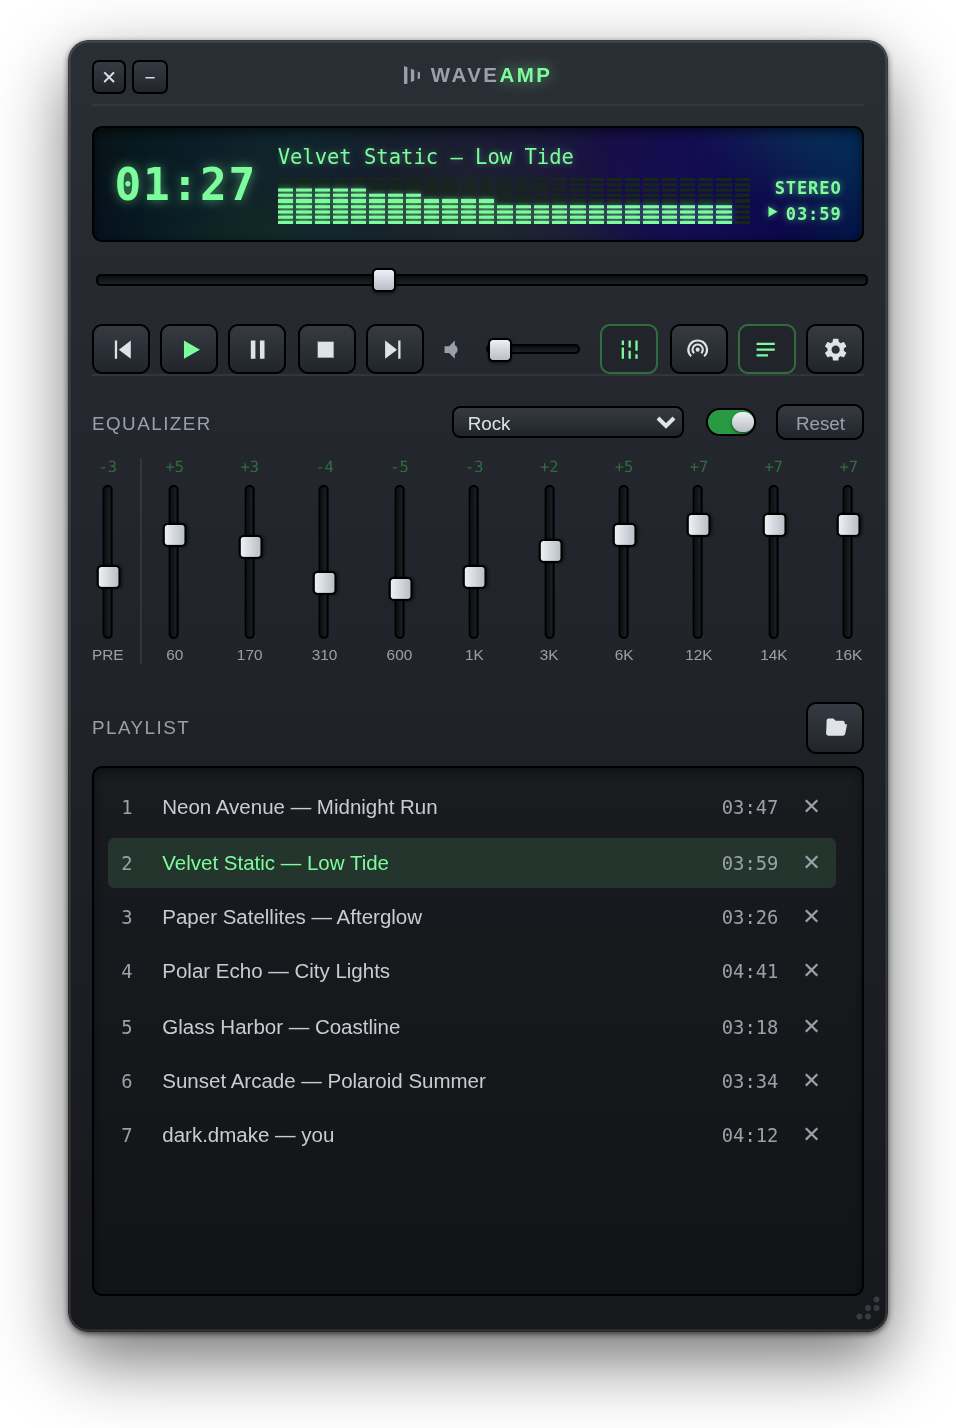
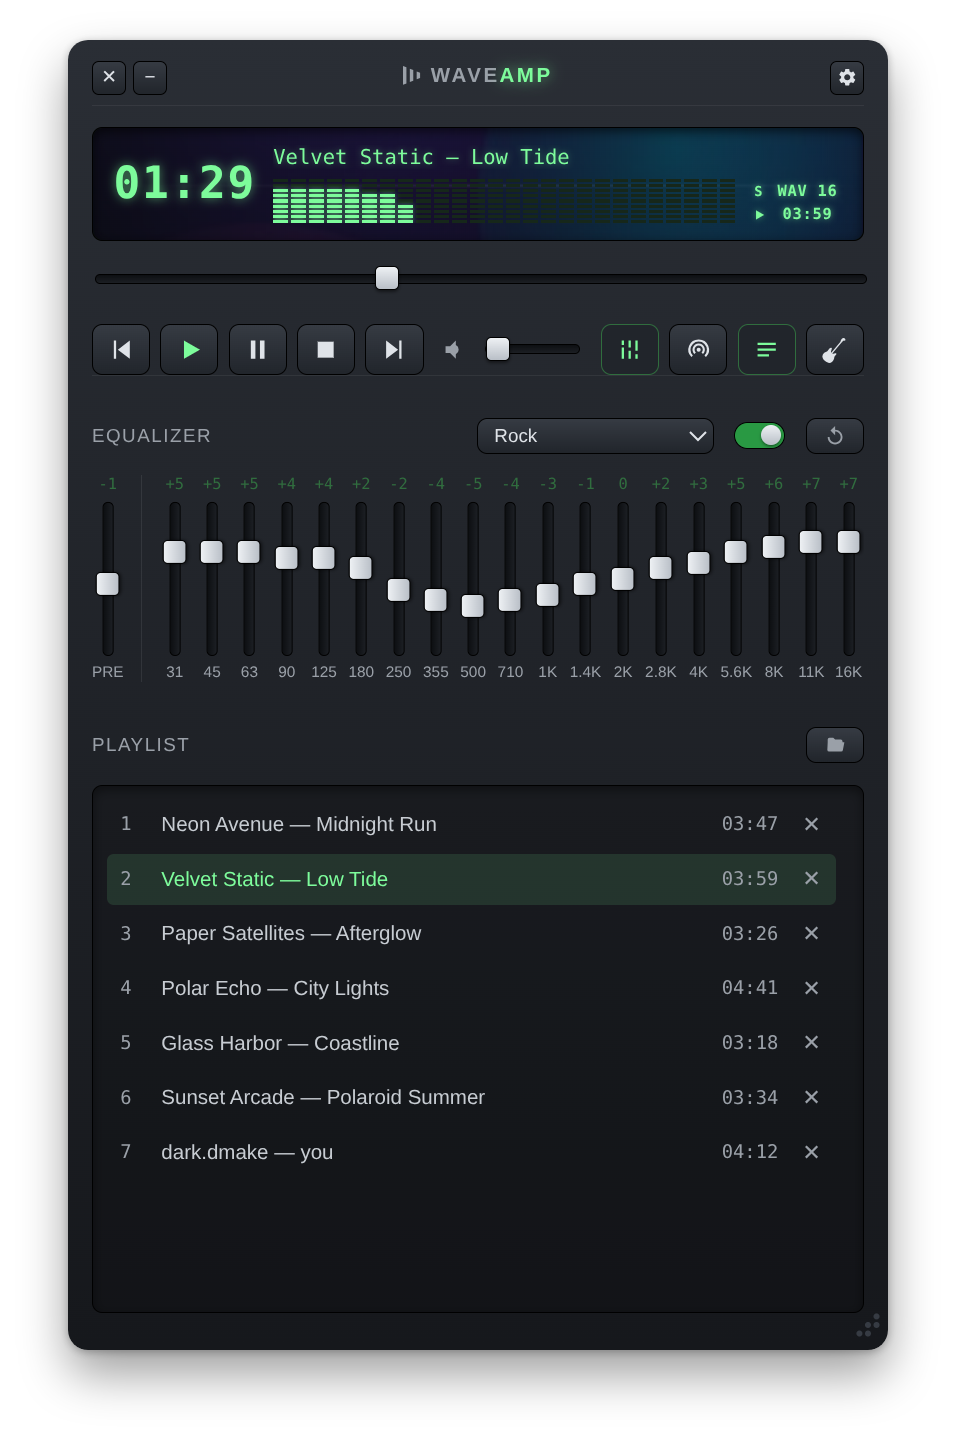
Refresh the README and keep the radio counters inside their buttons

diff --git a/src/renderer/style.css b/src/renderer/style.css
@@ -1534,7 +1534,7 @@ input[type="range"].eq__slider {
 .radio__tab-count {
   position: absolute;
   top: -6px;
-  right: -4px;
+  right: 0;
   display: inline-flex;
   align-items: center;
   justify-content: center;

diff --git a/README.ru.md b/README.ru.md
@@ -3,8 +3,8 @@
 [English](README.md) | **Русский**
 
 Десктопный аудиоплеер с интернет-радио в стиле классического Winamp: тёмный
-корпус, светящийся LCD-дисплей и настоящий 10-полосный эквалайзер. Работает
-на macOS, Windows и Linux.
+корпус, светящийся LCD-дисплей и настоящий эквалайзер на 10 или 19 полос.
+Работает на macOS, Windows и Linux.
 
 **Есть и для VS Code:** WaveAMP в боковой панели редактора —
 [waveamp-vscode](https://github.com/darkdkl/waveamp-vscode).
@@ -14,11 +14,16 @@
 </p>
 
 <p align="center">
-  <img src="docs/radio.png" alt="Радио: трек, который играет на станции, и сохранённые названия" width="400" />
+  <img src="docs/player.png" alt="19-полосный эквалайзер и плейлист, с обложкой" width="400" />
+  <img src="docs/chords.png" alt="Аккорды играющей песни над плейлистом" width="400" />
 </p>
 
 <p align="center">
-  <img src="docs/player.png" alt="Эквалайзер и плейлист с обложкой" width="400" />
+  <img src="docs/separate.png" alt="Отдельные окна: плеер, эквалайзер, аккорды и плейлист, прилипшие друг к другу" width="743" />
+</p>
+
+<p align="center">
+  <img src="docs/radio.png" alt="Радио: трек, который играет на станции, и сохранённые названия" width="400" />
   <img src="docs/settings.png" alt="Настройки" width="373" />
 </p>
 
@@ -34,10 +39,11 @@
 - **Обложки** — обложка альбома (вшитая в файл или `cover.jpg` / `folder.jpg`
   рядом с ним) или логотип радиостанции приглушённо видны на фоне дисплея и в
   «Сейчас играет» системы; отключается в настройках
-- **Эквалайзер** — 10 полос (60 Гц–16 кГц) и преамп на реальной обработке звука
-  через Web Audio API. 18 пресетов на основе классических пресетов Winamp
-  с автоматическим запасом по преампу и пользовательский пресет, который
-  запоминает ваши собственные настройки
+- **Эквалайзер** — 10 полос (60 Гц–16 кГц) или 19 более узких полос
+  (31 Гц–16 кГц), которые точно следуют ползункам, и преамп на реальной
+  обработке звука через Web Audio API. 18 пресетов на основе классических
+  пресетов Winamp с автоматическим запасом по преампу и пользовательский
+  пресет, который запоминает ваши собственные настройки
 - **Визуализатор** — режимы в LCD, переключаются кликом: LED-спектр,
   стрелочные индикаторы L/R и осциллограф. Плавный или пиковый отклик.
   Показывает реальный сигнал и не зависит от громкости
@@ -60,6 +66,19 @@
 - **Медиаклавиши и системный Now Playing** (Пункт управления macOS, медиапанель
   Windows)
 - **Иконка в трее** и сворачивание в трей по желанию
+- **Аккорды играющей песни** — по кнопке разбирает трек и по ходу
+  воспроизведения показывает предыдущий, текущий и следующий аккорд с
+  гитарными схемами, с каподастром и упрощённым режимом; работает и для
+  треков CUE-альбомов. Аккорды можно вынести в отдельное окно и растянуть
+  почти на весь экран; всё считается на вашем компьютере. На радио аккорды
+  распознаются на лету, пока играет станция: они появляются примерно на
+  секунду позже и менее точны, чем у файлов, — распознаванию нельзя заглянуть
+  вперёд, и мешают речь и реклама
+- **Отдельные окна** — эквалайзер, аккорды и плейлист/радио могут жить в своих
+  окнах, которые прилипают друг к другу и к краям экрана, двигаются вместе с
+  плеером и запоминают, где стояли (на Linux с Wayland плеер тогда работает
+  через XWayland)
+- **Перемещение плеера** — за любое пустое место, а не только за заголовок
 - **Прокси HTTP / SOCKS5** для радио
 - **Проверка обновлений** — сообщает о новой версии и даёт ссылку на страницу
   загрузки
@@ -105,7 +124,10 @@
   затем Системные настройки → Конфиденциальность и безопасность →
   «Всё равно открыть».
 - **Windows**: «Подробнее» → «Выполнить в любом случае» в окне SmartScreen
-- **Linux**: `chmod +x WaveAMP-*.AppImage` перед запуском
+- **Linux**: `chmod +x WaveAMP-*.AppImage` перед запуском. Для AppImage нужен
+  FUSE 2: если приложение не запускается и ругается на FUSE, установите его —
+  `sudo apt install libfuse2t64` в Debian 13 и Ubuntu 24.04+ (`libfuse2` в
+  более старых версиях) — или запустите с `--appimage-extract-and-run`.
 
 ## Сборка из исходников
 
@@ -147,6 +169,10 @@ npm run build:win
   аудиофайлов (MIT)
 - [projectM](https://github.com/projectM-visualizer/projectm) — движок пресетов
   визуализации, собранный в WebAssembly (LGPL-2.1)
+- [@wasm-audio-decoders/flac](https://github.com/eshaz/wasm-audio-decoders) —
+  декодирование FLAC для распознавания аккордов, на основе
+  [libFLAC](https://github.com/xiph/flac) (MIT; libFLAC — BSD-3-Clause),
+  вместе с [codec-parser](https://github.com/eshaz/codec-parser) (LGPL-3.0)
 
 Полный список со всеми зависимостями и текстами лицензий собирается в
 `THIRD_PARTY_LICENSES.txt` перед каждым запуском и сборкой (`npm run licenses`),

diff --git a/README.md b/README.md
@@ -3,7 +3,8 @@
 **English** | [Русский](README.ru.md)
 
 A retro-style desktop audio player with internet radio, in the spirit of
-classic Winamp: dark chrome, a glowing LCD and a real 10-band equalizer.
+classic Winamp: dark chrome, a glowing LCD and a real equalizer with 10 or
+19 bands.
 Runs on macOS, Windows and Linux.
 
 **Also for VS Code:** WaveAMP in the editor sidebar —
@@ -14,11 +15,16 @@ Runs on macOS, Windows and Linux.
 </p>
 
 <p align="center">
-  <img src="docs/radio.png" alt="Radio: the station's current track and saved track titles" width="400" />
+  <img src="docs/player.png" alt="The 19-band equalizer and the playlist, with cover art" width="400" />
+  <img src="docs/chords.png" alt="Chords of the playing song above the playlist" width="400" />
 </p>
 
 <p align="center">
-  <img src="docs/player.png" alt="Equalizer and playlist with cover art" width="400" />
+  <img src="docs/separate.png" alt="Separate windows: the player, the equalizer, the chords and the playlist snapped together" width="743" />
+</p>
+
+<p align="center">
+  <img src="docs/radio.png" alt="Radio: the station's current track and saved track titles" width="400" />
   <img src="docs/settings.png" alt="Settings" width="373" />
 </p>
 
@@ -63,8 +69,9 @@ Runs on macOS, Windows and Linux.
 - **Tray icon** with an optional close-to-tray mode
 - **Chords of the playing song** — analyses a track on request and shows the
   previous, current and next chord with guitar fingerings as it plays, with
-  capo and a simpler mode; the chords can pop out into their own window and
-  stretch up to the whole screen; all on your computer. On the radio the
+  capo and a simpler mode; tracks of CUE albums too. The chords can pop out
+  into their own window and stretch up to the whole screen; all on your
+  computer. On the radio the
   chords are detected live as the station plays: they come about a second
   late and are less accurate than for files, since there is no look ahead and
   speech or adverts get in the way
@@ -72,6 +79,7 @@ Runs on macOS, Windows and Linux.
   live in their own windows that snap to each other and to the screen edges,
   move with the player and remember where they were (on a Linux Wayland
   desktop the player then runs through XWayland)
+- **Moving the player** — by any empty spot, not only by the title bar
 - **HTTP / SOCKS5 proxy** for the radio
 - **Update check** — tells you when a new version is out, with a link to its
   download page
@@ -161,6 +169,10 @@ see [CONTRIBUTING.md](CONTRIBUTING.md). Security issues: [SECURITY.md](SECURITY.
   (MIT)
 - [projectM](https://github.com/projectM-visualizer/projectm) — the visualizer
   presets engine, compiled to WebAssembly (LGPL-2.1)
+- [@wasm-audio-decoders/flac](https://github.com/eshaz/wasm-audio-decoders) —
+  FLAC decoding for chord analysis, built on
+  [libFLAC](https://github.com/xiph/flac) (MIT; libFLAC under BSD-3-Clause),
+  with [codec-parser](https://github.com/eshaz/codec-parser) (LGPL-3.0)
 
 The full list with license texts is generated into `THIRD_PARTY_LICENSES.txt`
 before every run and build (`npm run licenses`), shipped next to the app and

diff --git a/CHANGELOG.md b/CHANGELOG.md
@@ -4,6 +4,12 @@ All notable changes to WaveAMP are documented here. The project follows
 [Semantic Versioning](https://semver.org/): new features bump the minor
 version, fixes bump the patch version.
 
+## [1.34.1] — 2026-10-28
+
+### Fixed
+- The counters on the radio's favorites and saved titles buttons are no longer
+  cut off at the right edge
+
 ## [1.34.0] — 2026-10-27
 
 ### Added
